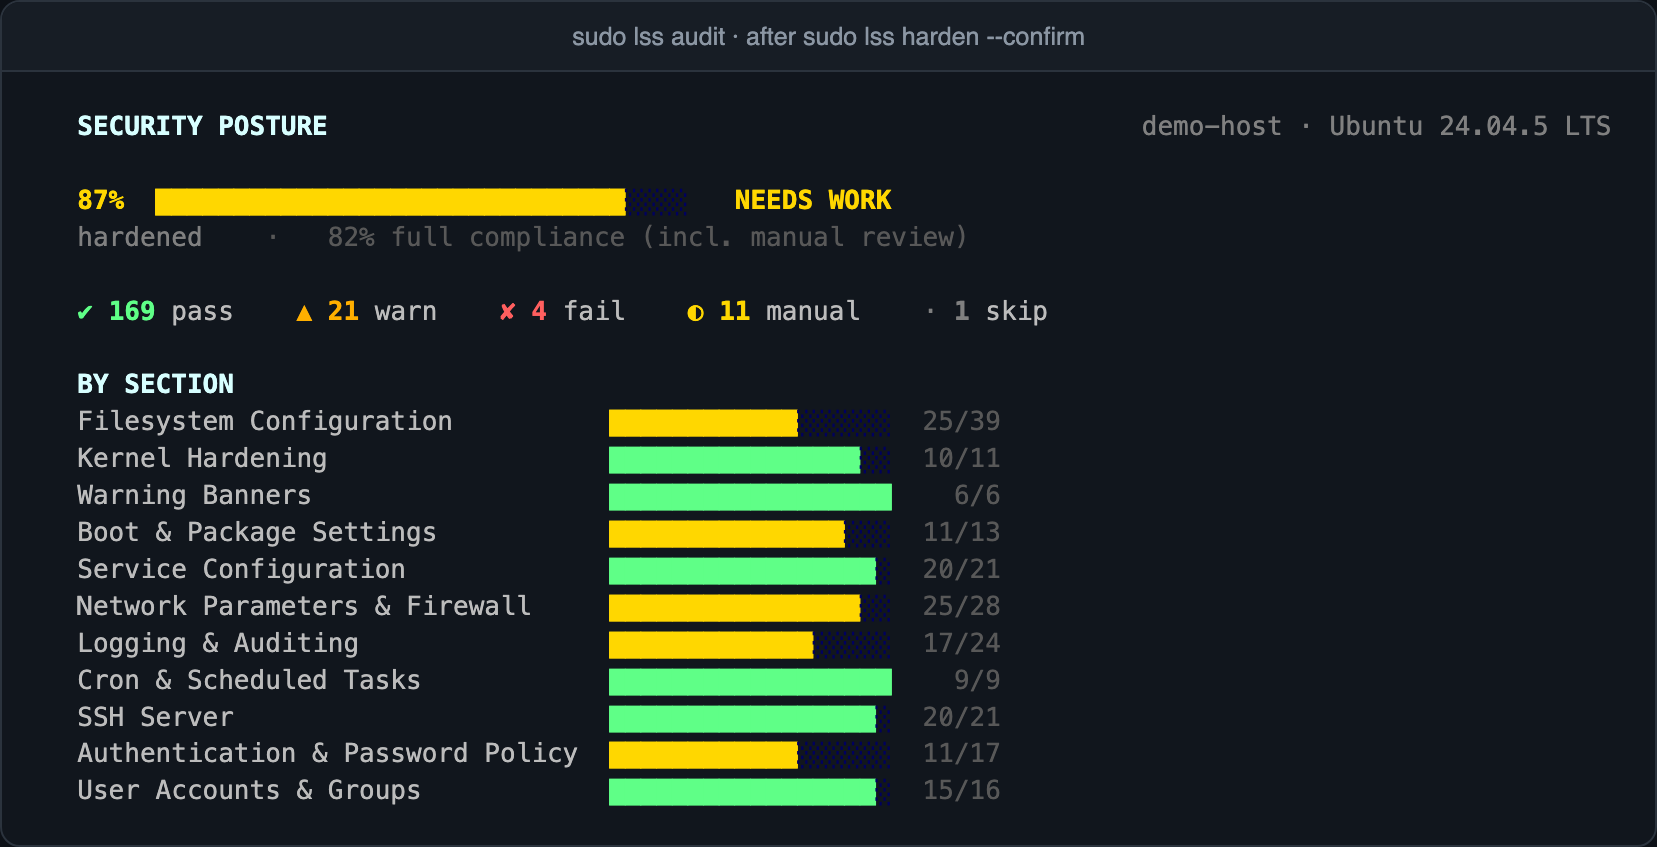
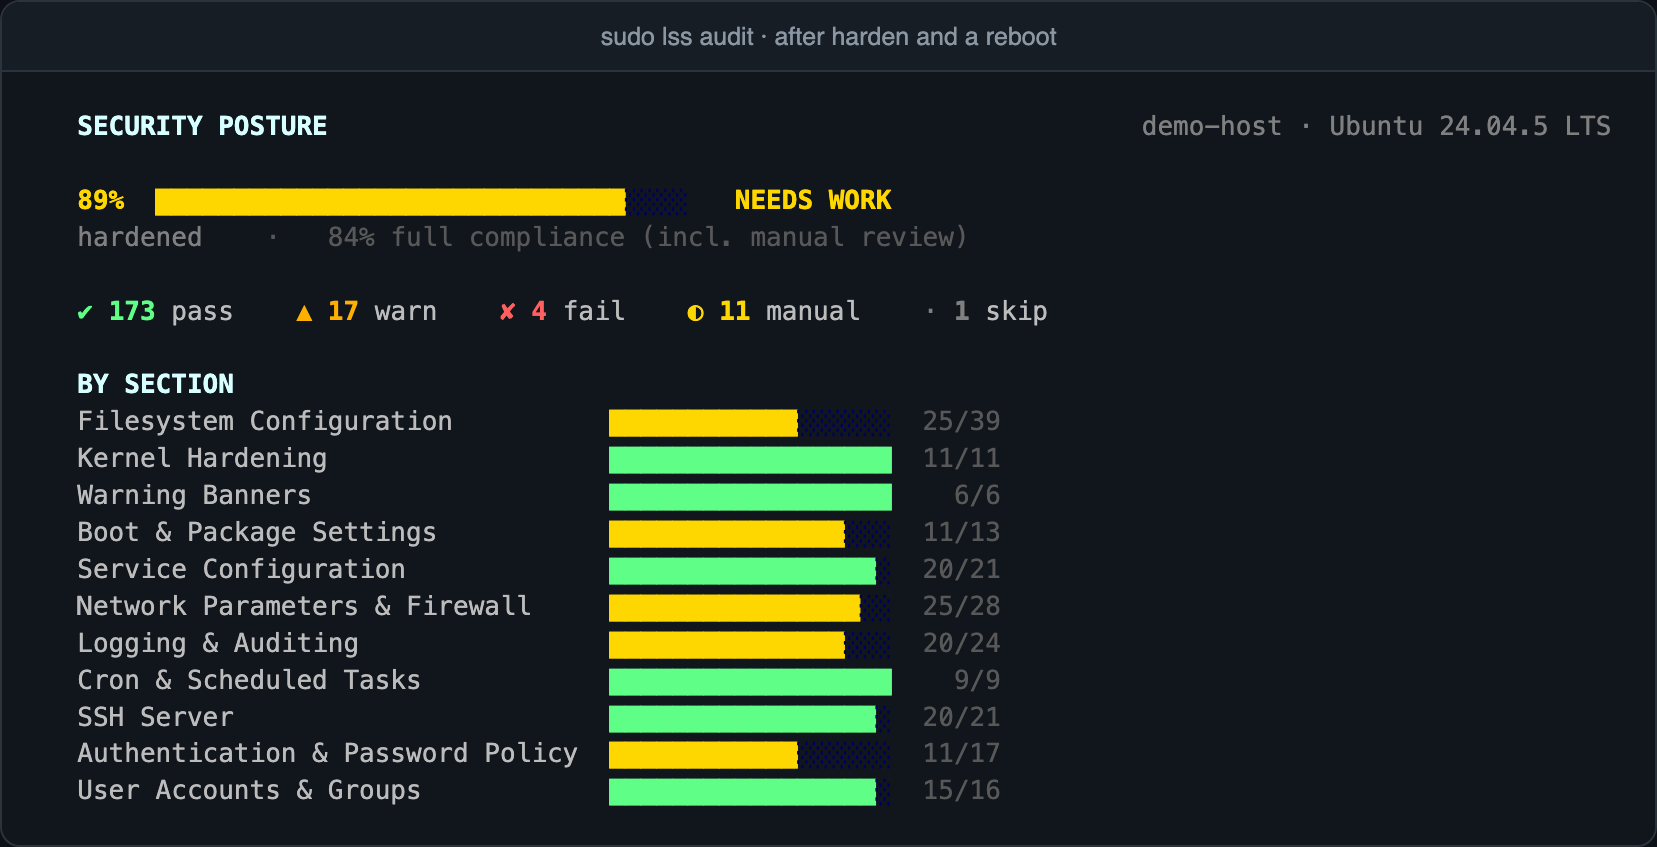
Update results from full harden, reboot and rollback runs

diff --git a/README.md b/README.md
@@ -7,7 +7,7 @@ Five security tools I designed and built. The source is private, so this page sh
 | [**LSS**](#lss-linux-security-suite) | Audits and hardens Linux against the CIS Benchmark, with rollback | Python | v1.0.2 |
 | [**LSS STIG**](#lss-stig) | Audits and hardens Ubuntu against DISA STIGs and writes STIG Viewer checklists | Python | v1.0.0 |
 | [**Wraith**](#wraith) | Detects command-and-control activity from how it disturbs the operating system | Python, NumPy, eBPF | v2.6.0, in active development |
-| [**SitRep**](#sitrep) | Reads system logs and explains in plain English what went wrong | Rust | v0.1.0 |
+| [**SitRep**](#sitrep) | Reads system logs and explains in plain English what went wrong | Rust | v0.2.1 |
 | [**APEX**](#apex) | Raises shell scripts to the standard their job calls for, offline | Python | Working |
 
 ---
@@ -20,20 +20,20 @@ A single command-line tool with no agent and no cloud service. It covers 206 con
 
 The other 40 stay audit-only on purpose. Repartitioning, bootloader edits and account decisions can take a machine down or destroy evidence, so LSS gives the operator the exact steps instead of guessing.
 
-Here's a stock Ubuntu 24.04 machine before and after one hardening run:
+Here's a stock Ubuntu 24.04 machine before hardening, and after hardening and a reboot:
 
 <table>
 <tr>
 <td width="50%"><img src="images/lss-before.png" alt="LSS audit of a stock Ubuntu 24.04 host: 51 percent hardened, 72 failing controls"></td>
-<td width="50%"><img src="images/lss-after.png" alt="LSS audit after hardening: 87 percent hardened, 4 failing controls"></td>
+<td width="50%"><img src="images/lss-after.png" alt="LSS audit after hardening and a reboot: 89 percent hardened, 4 failing controls"></td>
 </tr>
 </table>
 
-Failing controls dropped from 72 to 4 in that run.
+Failing controls dropped from 72 to 4, and the result held after the reboot.
 
 **Built to be safe on a live system**
 
-- **Rollback journal:** every change is recorded with a backup of the file and its undo command. Rollback replays them in reverse and reports anything it couldn't undo. In the run above, `sshd_config`, `sysctl.conf`, `fstab` and `login.defs` all came back byte-identical.
+- **Rollback journal:** every change is recorded with a backup of the file and its undo command. Rollback replays them in reverse and reports anything it couldn't undo. In the run above it finished with no errors, even after the reboot, and `sshd_config`, `sysctl.conf`, `fstab` and `login.defs` came back byte-identical. One kernel setting that can't be changed back while running returns to normal at the next boot, and LSS says so.
 - **Lockout protection:** LSS checks before making changes that could cut you off. Here it refused to disable root SSH login because the machine had no other admin account:
 
 <p align="center"><img src="images/lss-harden.png" alt="LSS harden output for SSH controls, skipping a fix that would cause a lockout" width="80%"></p>
@@ -49,7 +49,16 @@ Failing controls dropped from 72 to 4 in that run.
 
 It covers all 194 rules of the Canonical Ubuntu 24.04 LTS STIG, V1R6, with no third-party dependencies, so it works on air-gapped machines. Every audit writes a `.cklb` checklist with the evidence for each automated check.
 
-<p align="center"><img src="images/stig-summary.png" alt="LSS STIG audit summary by severity on a stock Ubuntu 24.04 host" width="80%"></p>
+Here's a stock Ubuntu 24.04 machine before hardening, and after hardening and a reboot:
+
+<table>
+<tr>
+<td width="50%"><img src="images/stig-before.png" alt="LSS STIG audit of a stock Ubuntu 24.04 host: 123 open findings"></td>
+<td width="50%"><img src="images/stig-after.png" alt="LSS STIG audit after hardening and a reboot: 18 open findings, none auto-fixable"></td>
+</tr>
+</table>
+
+One run applied 102 fixes with no errors and took open findings from 123 to 18. Those 18 need an operator's decision. After rollback, audit results, packages, services, firewall state and SSH settings all matched the original machine.
 
 **It doesn't blindly apply DISA's fix text.** Some published fixes would damage the machine, so LSS STIG does what the rule's check actually verifies:
 
@@ -58,6 +67,7 @@ It covers all 194 rules of the Canonical Ubuntu 24.04 LTS STIG, V1R6, with no th
 | V-270824 | `chmod -R 755` on command directories | Strips setuid from `sudo`, `su` and `passwd` | Removes only the directory's write bits |
 | V-270655 | `ufw enable` | Locks out a remote admin | Sets `ufw limit` on SSH ports first |
 | V-270645 | Purge `systemd-timesyncd` | Leaves the machine with no time daemon | Installs chrony first |
+| V-270694 | Loop around the consent prompt | Hangs any login shell with no terminal at 100% CPU | Refuses that session |
 
 ---
 
@@ -122,12 +132,12 @@ The engine is deterministic and fully offline, with no third-party dependencies.
 
 ## Testing
 
-Test suites as last run. LSS, LSS STIG, Wraith and APEX ran on Ubuntu 24.04 arm64, and SitRep ran on macOS.
+LSS and LSS STIG also went through full harden, reboot and rollback cycles on an Ubuntu 24.04 arm64 VM. Test suites as last run: LSS, LSS STIG, Wraith and APEX on Ubuntu 24.04 arm64, and SitRep on macOS.
 
 | Tool | Result |
 |---|---|
-| LSS | 1,699 passed, 1 skipped |
-| LSS STIG | 85 tests passed |
+| LSS | 1,709 passed, 1 skipped |
+| LSS STIG | 91 tests passed |
 | Wraith | 675 passed, 4 skipped |
 | SitRep | 79 passed |
 | APEX | 101 checks passed |
